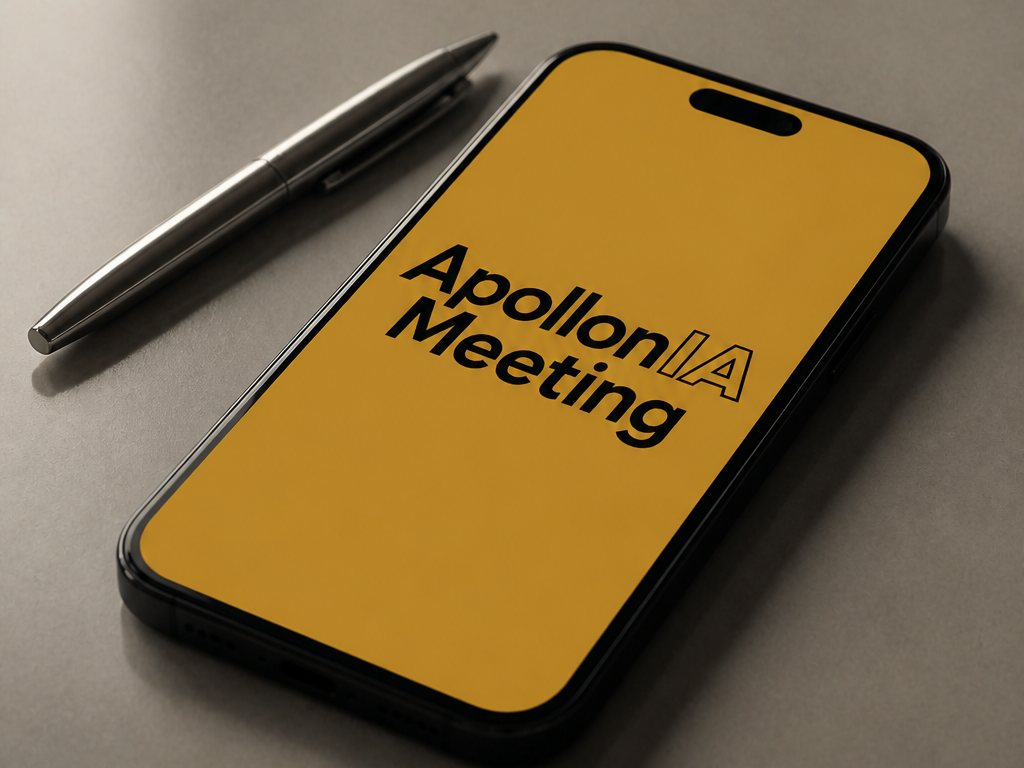
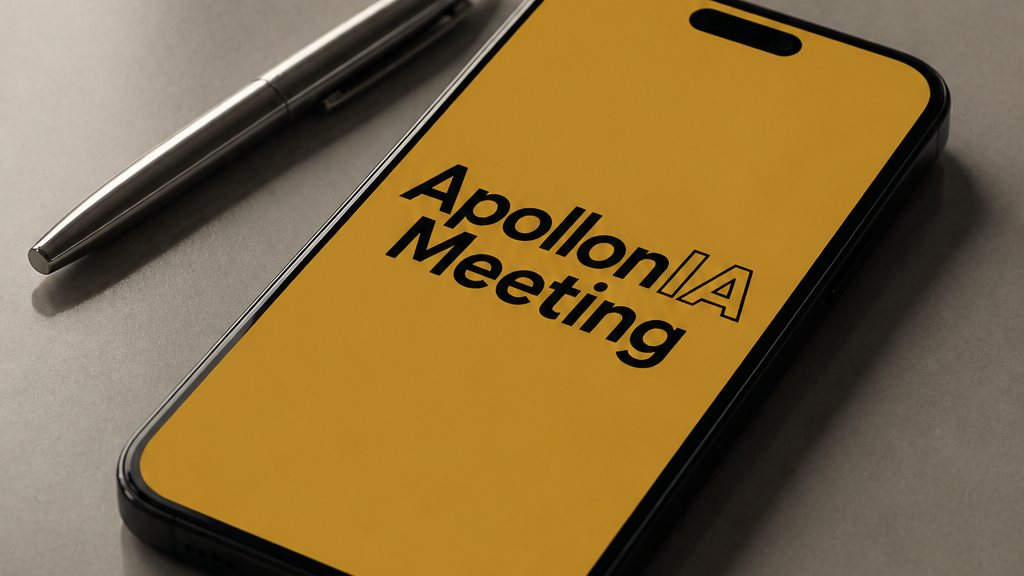
new image

diff --git a/backend/landingpage/sk/index.html b/backend/landingpage/sk/index.html
@@ -244,11 +244,11 @@
     .tool-highlight-desc { margin-top: 4px; font-size: 13px; line-height: 1.6; color: var(--muted); }
     .tool-hint { display: inline-flex; align-items: center; gap: 7px; margin-top: 12px; font-size: 12px; color: var(--muted); }
     /* Same frame as .reveal-compare, so both tool cards line up. */
-    .tool-media { position: relative; aspect-ratio: 4 / 3; border-radius: 1rem; overflow: hidden; border: 1px solid var(--border); background: rgba(255,255,255,.02); }
+    .tool-media { position: relative; aspect-ratio: 16 / 9; border-radius: 1rem; overflow: hidden; border: 1px solid var(--border); background: rgba(255,255,255,.02); }
     .tool-media img { display: block; width: 100%; height: 100%; object-fit: cover; }
 
     /* Before/after reveal slider */
-    .reveal-compare { position: relative; aspect-ratio: 4 / 3; border-radius: 1rem; overflow: hidden; border: 1px solid var(--border); background: rgba(255,255,255,.02); cursor: ew-resize; user-select: none; -webkit-user-select: none; touch-action: pan-y; }
+    .reveal-compare { position: relative; aspect-ratio: 16 / 9; border-radius: 1rem; overflow: hidden; border: 1px solid var(--border); background: rgba(255,255,255,.02); cursor: ew-resize; user-select: none; -webkit-user-select: none; touch-action: pan-y; }
     .reveal-compare:focus-visible { outline: 2px solid var(--accent); outline-offset: 3px; }
     .reveal-layer { position: absolute; inset: 0; }
     .reveal-layer img { width: 100%; height: 100%; object-fit: cover; display: block; pointer-events: none; -webkit-user-drag: none; }
@@ -849,14 +849,14 @@
 
                 <!-- After (full, bottom layer) -->
                 <div class="reveal-layer">
-                  <img src="/assets/photo-tool-after.jpg" width="1600" height="1206" loading="lazy" decoding="async"
-                       alt="Tá istá kuchyňa po ApollonIA Photo: upravené svetlo, prirodzené farby a uprataný priestor" />
+                  <img src="/assets/photo-tool-after.jpg" width="1600" height="900" loading="lazy" decoding="async"
+                       alt="Tá istá obývačka po ApollonIA Photo: upravené svetlo, rovné línie a uprataný priestor" />
                 </div>
 
                 <!-- Before (clipped, top layer) -->
                 <div class="reveal-layer" data-reveal-clip style="clip-path:inset(0 50% 0 0)">
-                  <img src="/assets/photo-tool-before.jpg" width="1600" height="1205" loading="lazy" decoding="async"
-                       alt="Tá istá kuchyňa odfotená telefónom: ploché svetlo a predmety, ktoré tam nepatria" />
+                  <img src="/assets/photo-tool-before.jpg" width="1600" height="900" loading="lazy" decoding="async"
+                       alt="Obývačka s kuchyňou odfotená telefónom: skreslená perspektíva a predmety, ktoré tam nepatria" />
                 </div>
 
                 <div class="reveal-divider" data-reveal-divider style="left:50%">
@@ -923,7 +923,7 @@
 
             <div class="lg:col-span-7">
               <div class="tool-media">
-                <img src="/assets/meeting-tool.jpg" width="1024" height="768" loading="lazy" decoding="async"
+                <img src="/assets/meeting-tool.jpg" width="1024" height="576" loading="lazy" decoding="async"
                      alt="Smartfón položený na stole počas stretnutia so zapnutým ApollonIA Meeting na obrazovke" />
               </div>
 

diff --git a/backend/landingpage/index.html b/backend/landingpage/index.html
@@ -244,11 +244,11 @@
     .tool-highlight-desc { margin-top: 4px; font-size: 13px; line-height: 1.6; color: var(--muted); }
     .tool-hint { display: inline-flex; align-items: center; gap: 7px; margin-top: 12px; font-size: 12px; color: var(--muted); }
     /* Same frame as .reveal-compare, so both tool cards line up. */
-    .tool-media { position: relative; aspect-ratio: 4 / 3; border-radius: 1rem; overflow: hidden; border: 1px solid var(--border); background: rgba(255,255,255,.02); }
+    .tool-media { position: relative; aspect-ratio: 16 / 9; border-radius: 1rem; overflow: hidden; border: 1px solid var(--border); background: rgba(255,255,255,.02); }
     .tool-media img { display: block; width: 100%; height: 100%; object-fit: cover; }
 
     /* Before/after reveal slider */
-    .reveal-compare { position: relative; aspect-ratio: 4 / 3; border-radius: 1rem; overflow: hidden; border: 1px solid var(--border); background: rgba(255,255,255,.02); cursor: ew-resize; user-select: none; -webkit-user-select: none; touch-action: pan-y; }
+    .reveal-compare { position: relative; aspect-ratio: 16 / 9; border-radius: 1rem; overflow: hidden; border: 1px solid var(--border); background: rgba(255,255,255,.02); cursor: ew-resize; user-select: none; -webkit-user-select: none; touch-action: pan-y; }
     .reveal-compare:focus-visible { outline: 2px solid var(--accent); outline-offset: 3px; }
     .reveal-layer { position: absolute; inset: 0; }
     .reveal-layer img { width: 100%; height: 100%; object-fit: cover; display: block; pointer-events: none; -webkit-user-drag: none; }
@@ -850,14 +850,14 @@
 
                 <!-- After (full, bottom layer) -->
                 <div class="reveal-layer">
-                  <img src="/assets/photo-tool-after.jpg" width="1600" height="1206" loading="lazy" decoding="async"
-                       alt="La stessa cucina dopo ApollonIA Photo: luce curata, colori naturali e ambiente in ordine" />
+                  <img src="/assets/photo-tool-after.jpg" width="1600" height="900" loading="lazy" decoding="async"
+                       alt="Lo stesso soggiorno dopo ApollonIA Photo: luce curata, linee dritte e ambiente in ordine" />
                 </div>
 
                 <!-- Before (clipped, top layer) -->
                 <div class="reveal-layer" data-reveal-clip style="clip-path:inset(0 50% 0 0)">
-                  <img src="/assets/photo-tool-before.jpg" width="1600" height="1205" loading="lazy" decoding="async"
-                       alt="La stessa cucina fotografata col telefono: luce piatta e oggetti fuori posto" />
+                  <img src="/assets/photo-tool-before.jpg" width="1600" height="900" loading="lazy" decoding="async"
+                       alt="Soggiorno open space fotografato col telefono: prospettiva distorta e oggetti fuori posto" />
                 </div>
 
                 <div class="reveal-divider" data-reveal-divider style="left:50%">
@@ -924,7 +924,7 @@
 
             <div class="lg:col-span-7">
               <div class="tool-media">
-                <img src="/assets/meeting-tool.jpg" width="1024" height="768" loading="lazy" decoding="async"
+                <img src="/assets/meeting-tool.jpg" width="1024" height="576" loading="lazy" decoding="async"
                      alt="Smartphone appoggiato sul tavolo durante un incontro, con ApollonIA Meeting attivo sullo schermo" />
               </div>
 
